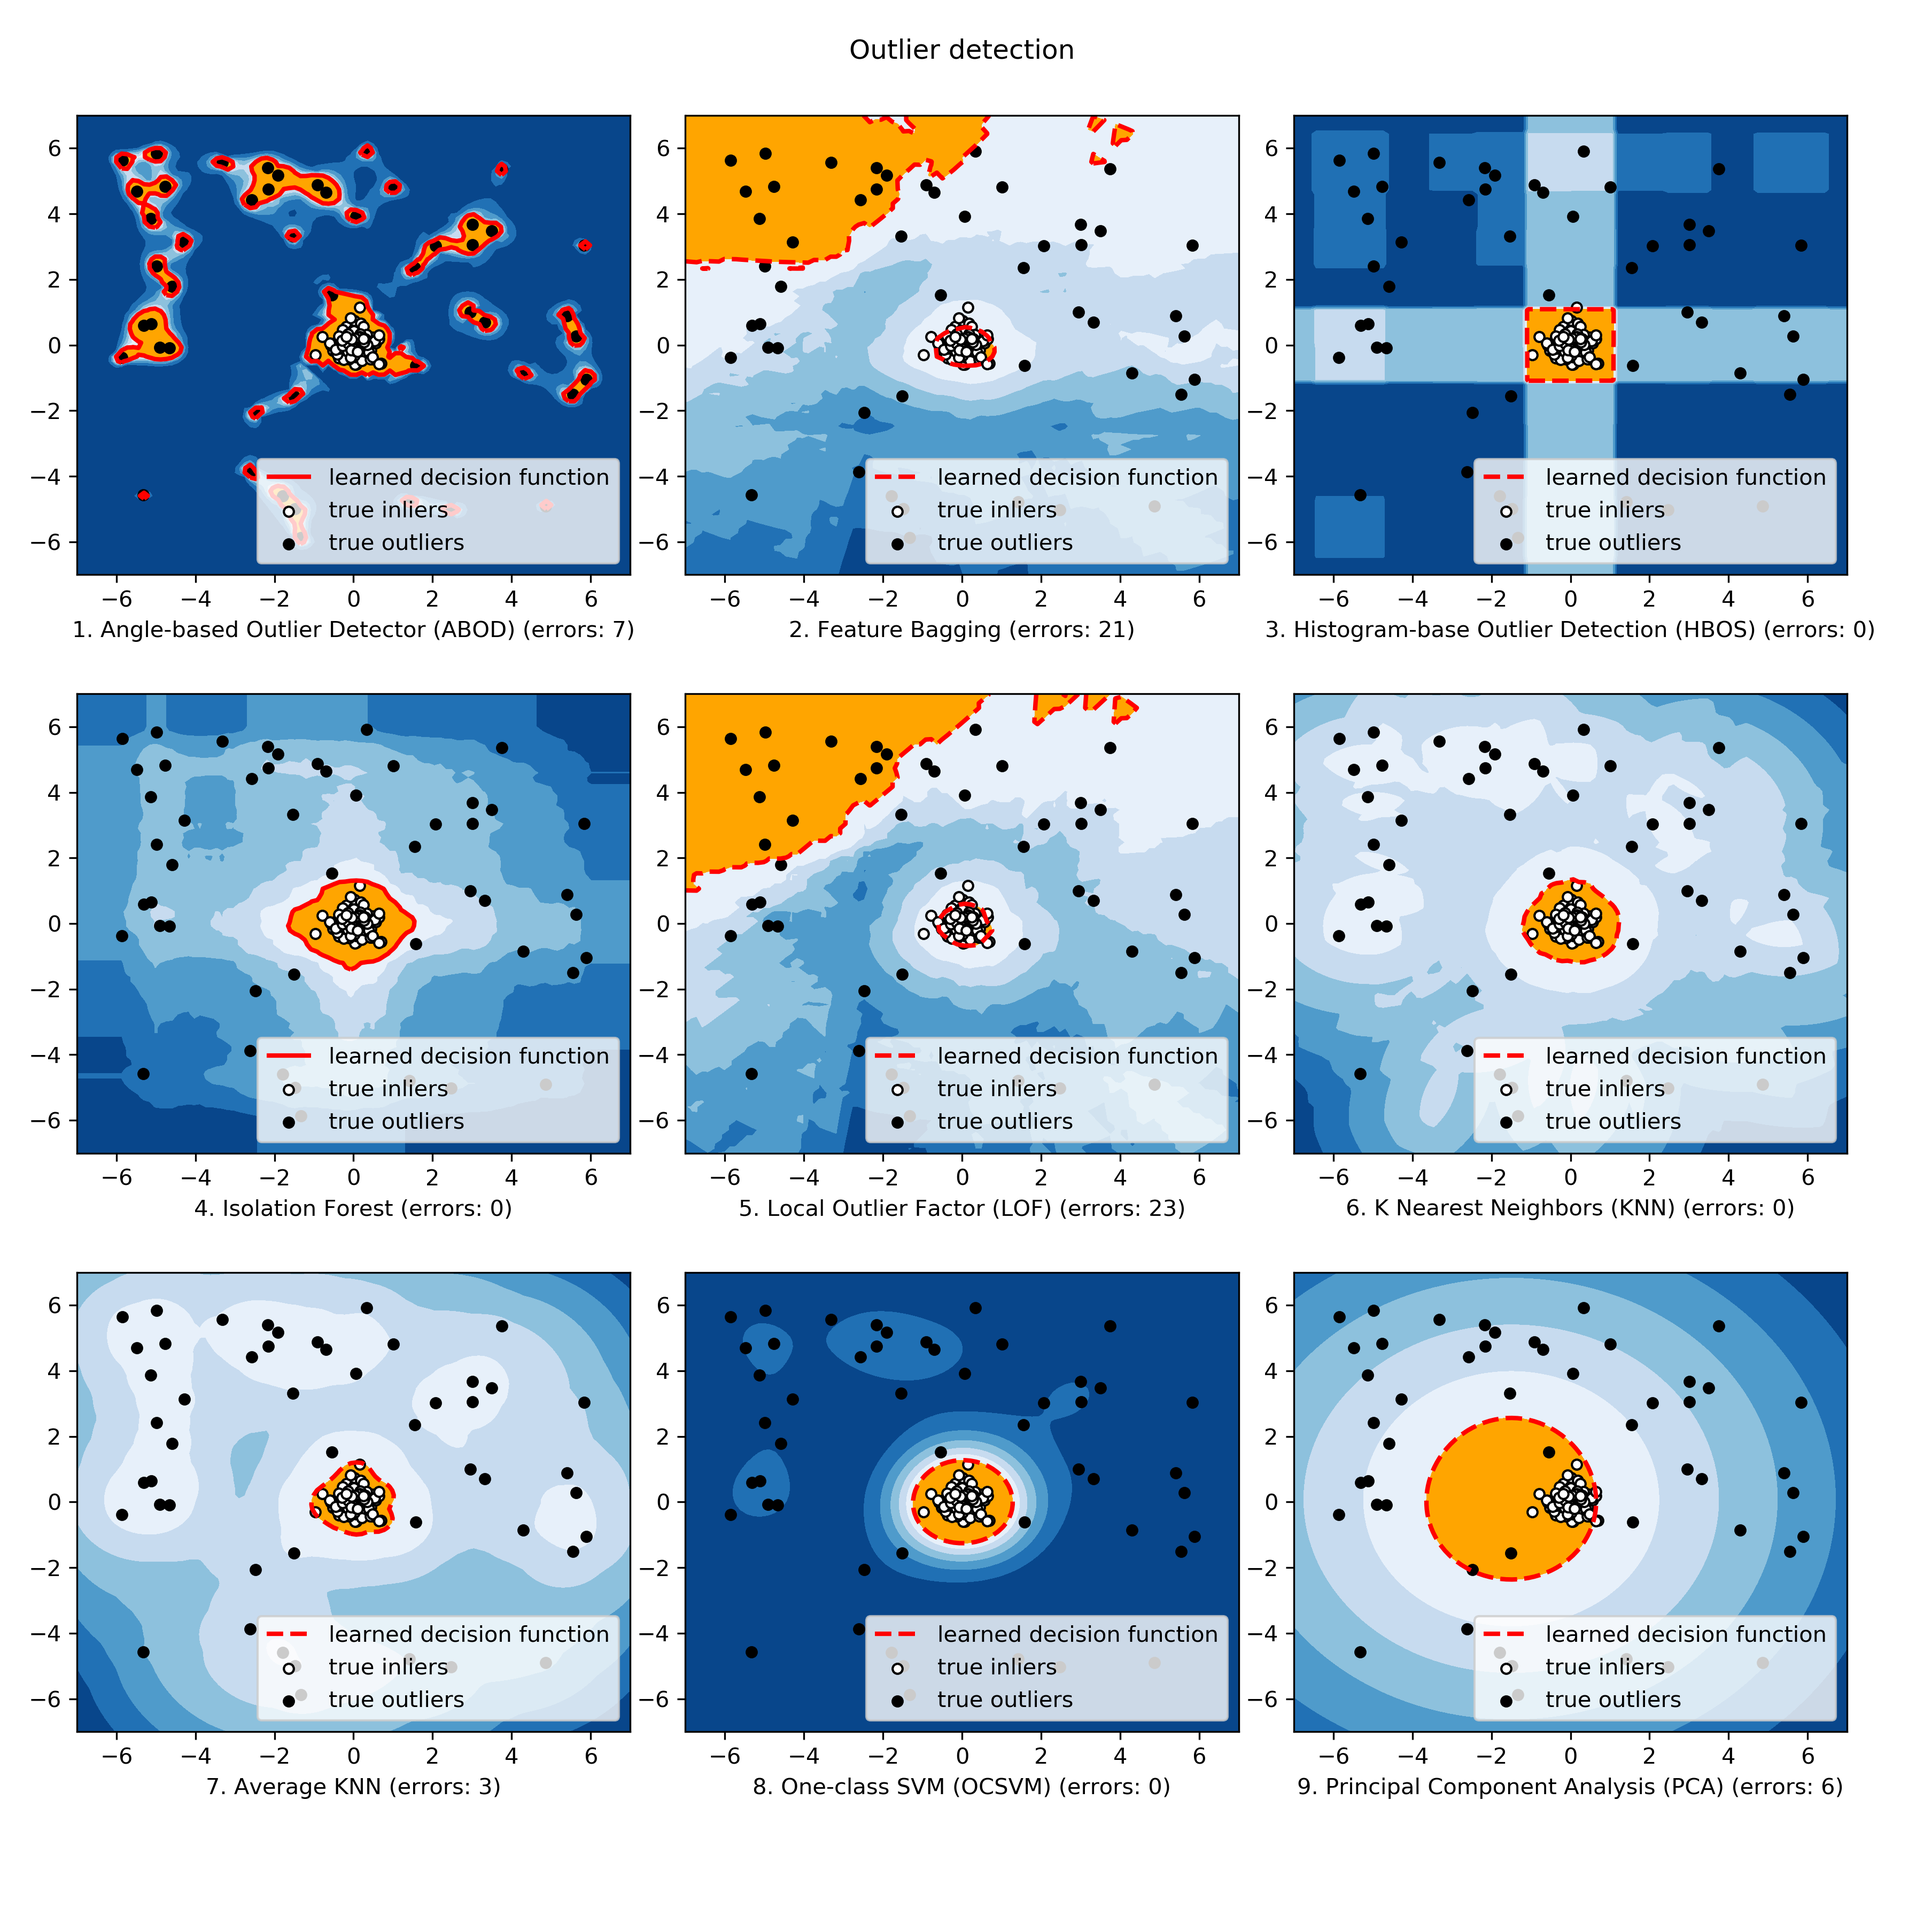
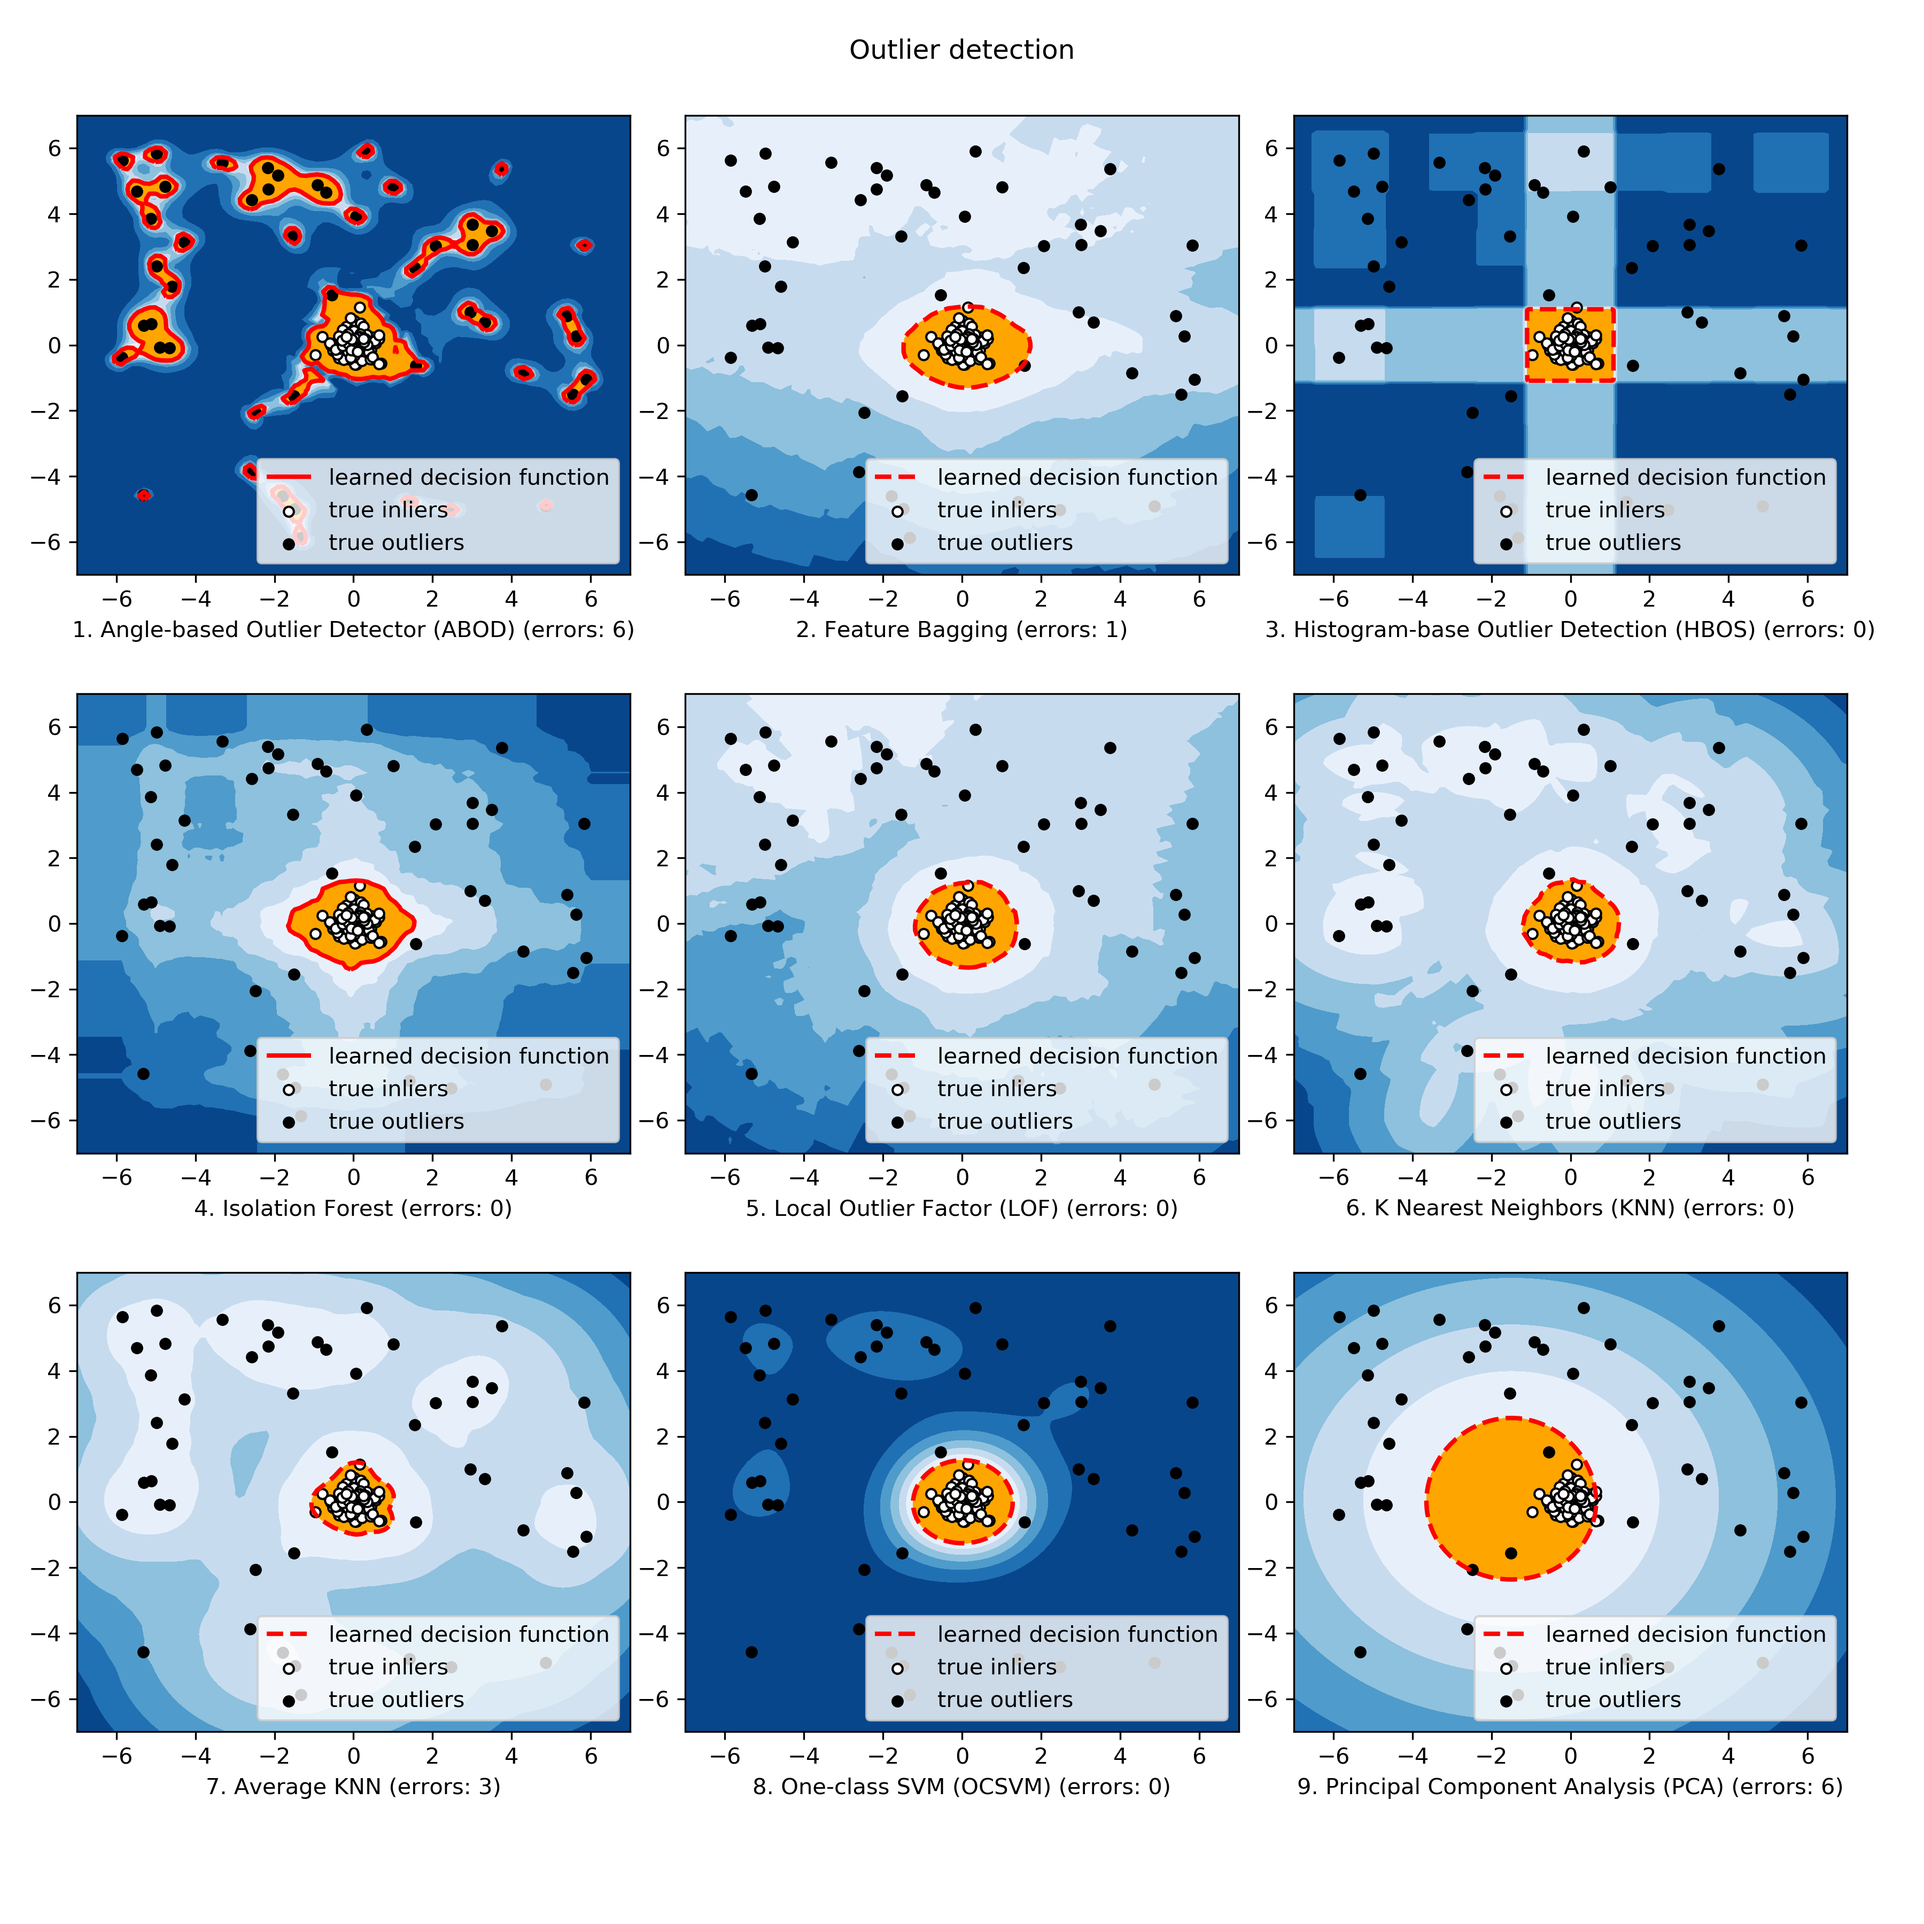
Improve documentation

diff --git a/examples/compare_all_models.py b/examples/compare_all_models.py
@@ -36,20 +36,26 @@ outliers_fraction = 0.25
 clusters_separation = [0]
 
 # define two outlier detection tools to be compared
-classifiers = {
-    'Angle-based Outlier Detector (ABOD)': ABOD(
-        contamination=outliers_fraction),
-    'Feature Bagging': FeatureBagging(contamination=outliers_fraction),
-    'Histogram-base Outlier Detection (HBOS)': HBOS(
-        contamination=outliers_fraction),
-    'Isolation Forest': IForest(contamination=outliers_fraction),
-    'Local Outlier Factor (LOF)': LOF(contamination=outliers_fraction),
-    'K Nearest Neighbors (KNN)': KNN(contamination=outliers_fraction),
-    'Average KNN': KNN(contamination=outliers_fraction, method='mean'),
-    'One-class SVM (OCSVM)': OCSVM(contamination=outliers_fraction),
-    'Principal Component Analysis (PCA)': PCA(
-        contamination=outliers_fraction),
-}
+classifiers = {'Angle-based Outlier Detector (ABOD)':
+                   ABOD(n_neighbors=10,
+                        contamination=outliers_fraction),
+               'Feature Bagging':
+                   FeatureBagging(LOF(n_neighbors=35),
+                                  contamination=outliers_fraction),
+               'Histogram-base Outlier Detection (HBOS)': HBOS(
+                   contamination=outliers_fraction),
+               'Isolation Forest': IForest(contamination=outliers_fraction),
+               'Local Outlier Factor (LOF)':
+                   LOF(n_neighbors=35,
+                       contamination=outliers_fraction),
+               'K Nearest Neighbors (KNN)': KNN(
+                   contamination=outliers_fraction),
+               'Average KNN': KNN(contamination=outliers_fraction,
+                                  method='mean'),
+               'One-class SVM (OCSVM)': OCSVM(contamination=outliers_fraction),
+               'Principal Component Analysis (PCA)': PCA(
+                   contamination=outliers_fraction),
+               }
 
 # Compare given classifiers under given settings
 xx, yy = np.meshgrid(np.linspace(-7, 7, 100), np.linspace(-7, 7, 100))

diff --git a/examples/temp_do_not_use.py b/examples/temp_do_not_use.py
@@ -33,21 +33,22 @@ rng = np.random.RandomState(42)
 # Example settings
 n_samples = 200
 outliers_fraction = 0.25
-clusters_separation = [0, 1, 2]
+clusters_separation = [0]
 
 # define two outlier detection tools to be compared
 classifiers = {
-    'Angle-based Outlier Detector (ABOD)': ABOD(
-        contamination=outliers_fraction),
+
     'Feature Bagging': FeatureBagging(contamination=outliers_fraction),
     'Histogram-base Outlier Detection (HBOS)': HBOS(
         contamination=outliers_fraction),
     'Isolation Forest': IForest(contamination=outliers_fraction),
-    'Local Outlier Factor (LOF)': LOF(contamination=outliers_fraction),
+    'Local Outlier Factor (LOF)': LOF(contamination=outliers_fraction, n_neighbors=35),
     'K Nearest Neighbors (KNN)': KNN(contamination=outliers_fraction),
     'Average KNN': KNN(contamination=outliers_fraction, method='mean'),
     'One-class SVM (OCSVM)': OCSVM(contamination=outliers_fraction),
     'Principal Component Analysis (PCA)': PCA(
+        contamination=outliers_fraction),
+    'Angle-based Outlier Detector (ABOD)': ABOD(
         contamination=outliers_fraction),
 }
 
@@ -69,7 +70,7 @@ for i, offset in enumerate(clusters_separation):
     X = np.r_[X, np.random.uniform(low=-6, high=6, size=(n_outliers, 2))]
 
     # Fit the model
-    plt.figure(figsize=(12, 12))
+    plt.figure(figsize=(12, 14))
     for i, (clf_name, clf) in enumerate(classifiers.items()):
         # fit the data and tag outliers
         clf.fit(X)
